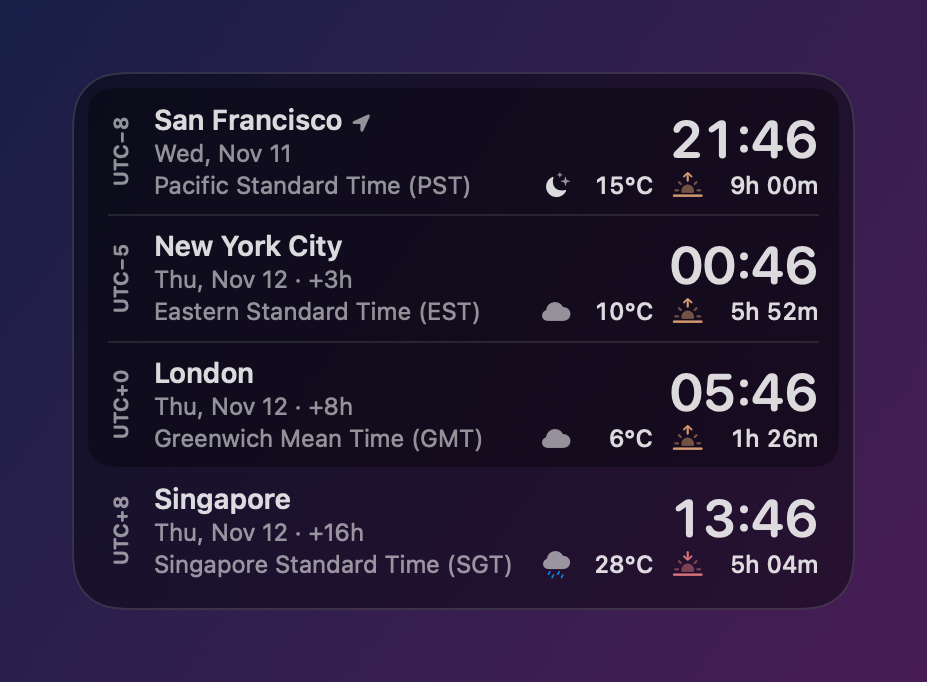
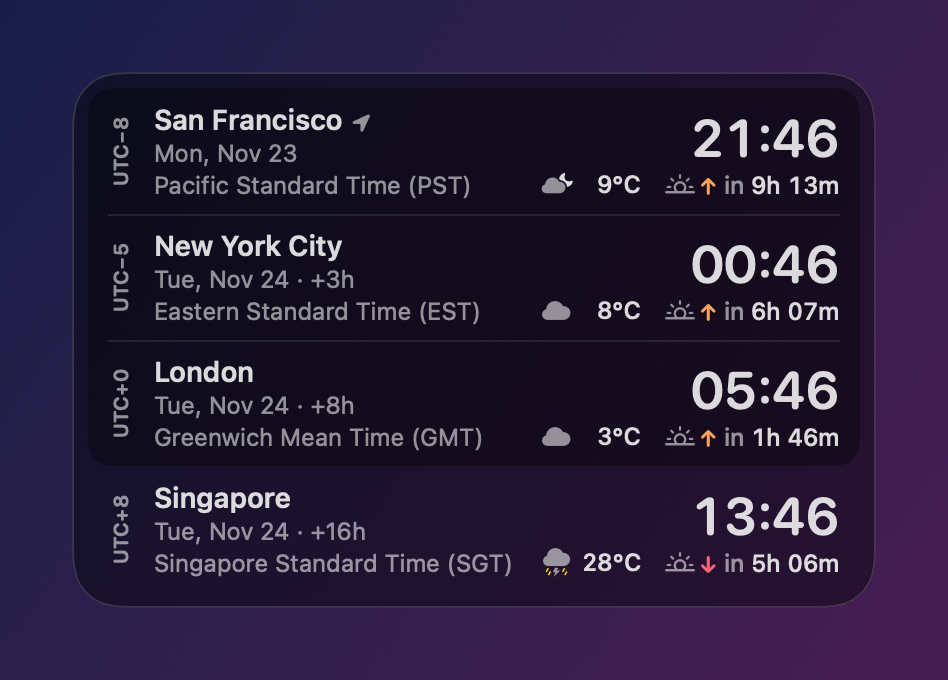
Update README previews for the new sunrise and sunset look

diff --git a/README.md b/README.md
@@ -6,7 +6,7 @@ A world clock for the macOS desktop and menu bar, for keeping track of several t
 
 <picture>
   <source media="(prefers-color-scheme: dark)" srcset="docs/preview-dark.png">
-  <img alt="World Clocks showing San Francisco, New York City, London and Singapore, with the three cities where it is night shaded together" src="docs/preview-light.png" width="464">
+  <img alt="World Clocks showing San Francisco, New York City, London and Singapore, with the three cities where it is night shaded together" src="docs/preview-light.png" width="474">
 </picture>
 
 ## Features
